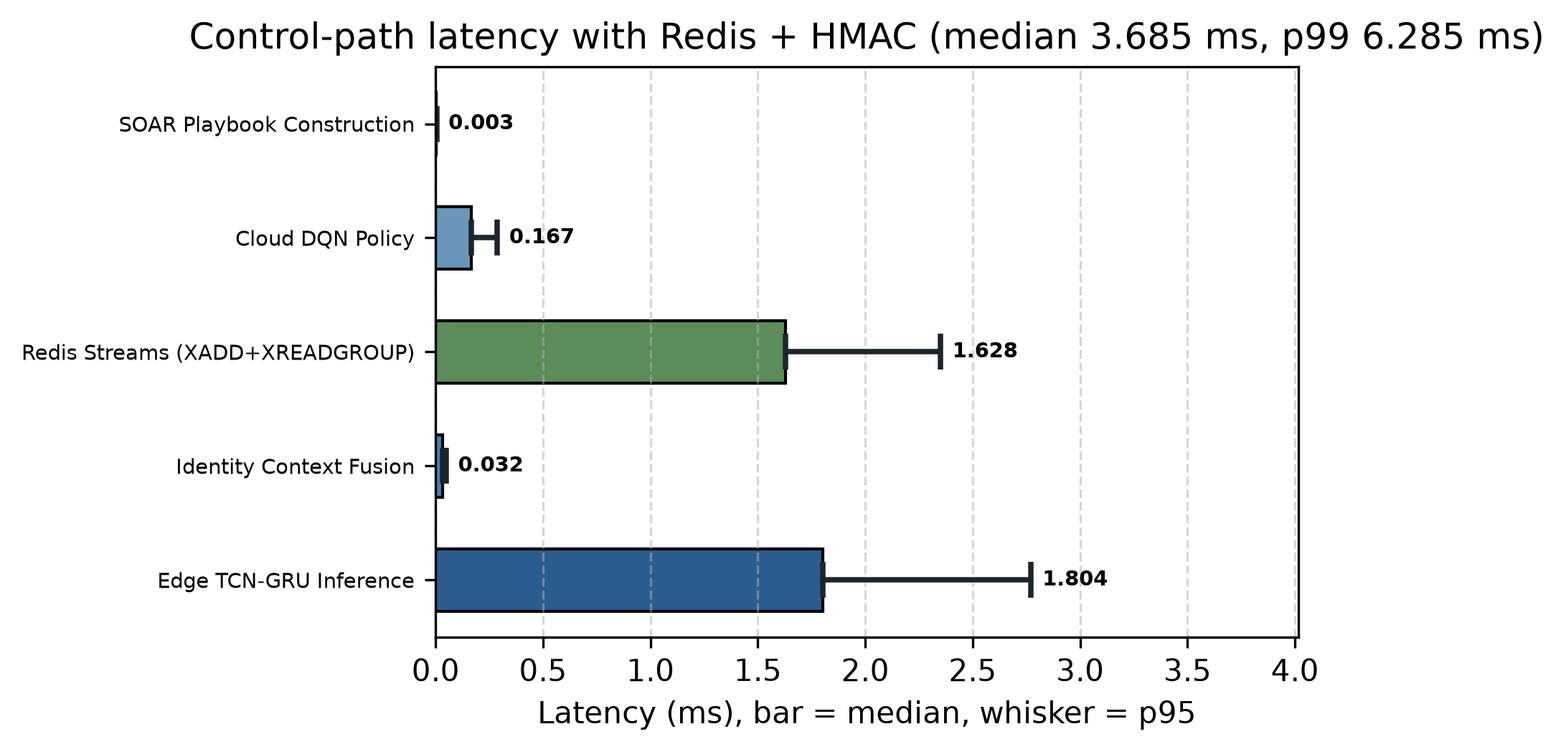
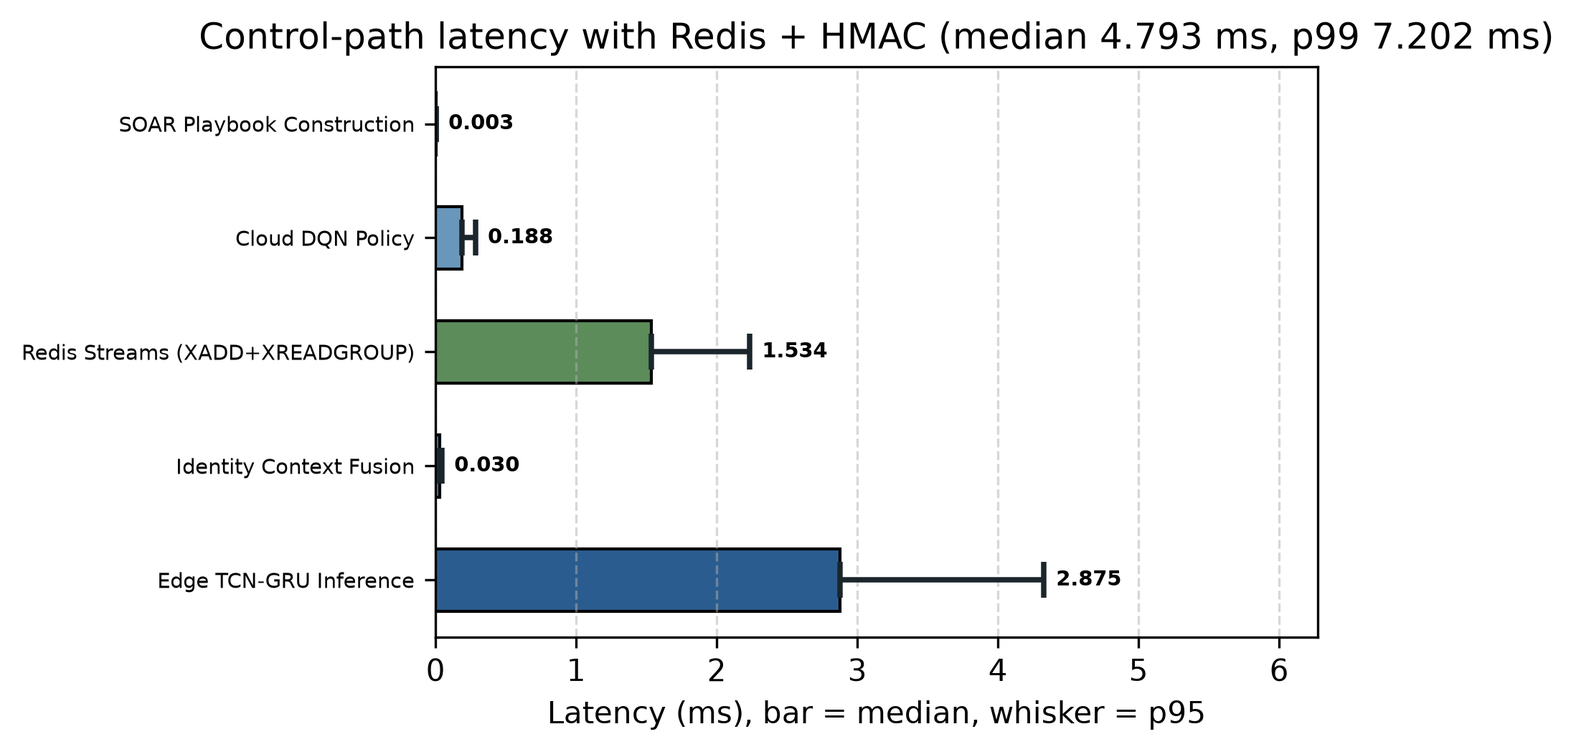
Correct InSDN window provenance: last-flow labels, post-shuffle index overlap, trained latency detector.
Drop false temporal/capture-order claims, align build_windows with the frozen archive, and sync Table IV after loading the trained INT8 checkpoint.

diff --git a/icaifai.tex b/icaifai.tex
@@ -26,7 +26,7 @@ Ho Chi Minh City, Vietnam\\ Email: 23dh113972@st.huflit.edu.vn, thanhct@huflit.e
 \maketitle
 
 \begin{abstract}
-University campus networks combine unmanaged BYOD endpoints, open research laboratories, and high-density IoT deployments, creating an expansive attack surface where traditional Security Operations Center (SOC) workflows struggle with long operational Mean Time to Respond (MTTR). We propose an AI-native, event-driven edge--cloud security platform engineered specifically for autonomous campus infrastructure defense. The architecture deploys lightweight INT8-quantized TCN--GRU sequence models at network edge gateways to score non-DPI flow telemetry. Enriched security events are carried asynchronously over a Redis Streams consumer group to a cloud risk resolver and Deep Q-Network (DQN) Software-Defined Networking (SDN) policy that emits SOAR playbooks; installing them in the dataplane is outside what we measure. Evaluated on \textbf{real InSDN} flow windows~\cite{b1} ($20{,}000$ stratified samples), the platform achieves a \emph{software control-path} latency --- prepared-window edge inference, simulated identity enrichment with HMAC \texttt{principal\_id}, Redis \texttt{XADD}/\texttt{XREADGROUP}, DQN selection, and playbook construction for the selected action, excluding dataplane enforcement --- with a $3.685$~ms median and a $6.285$~ms p99 on localhost Redis~7.2.4. Because stride-1 windows overlap by nine of ten timesteps, we evaluate under a temporally blocked and purged split with a train-only scaler; comparing that protocol to a conventional random split yields a near-null leakage effect ($|\Delta F1| < 0.002$ at fixed $\tau$). Under the controlled protocol the INT8 detector reaches $F1 = 0.9340$ at $\tau = 0.65$ with a $0.048$~MB footprint and negligible quantization loss ($|\Delta F1| \le 0.0002$). We further report five negative results: gradient-boosted trees on the same features outperform the proposed detector (LightGBM $F1 = 0.9886$ against $0.9723$), leaving it only a footprint advantage; reconstruction-error scoring is unusable on this attack-heavy corpus ($F1 \approx 0.035$), so detection rests entirely on the supervised head; our edge CPU budget is missed ($36.0\%$ of one logical CPU at a sustained $10{,}000$ windows/s against a pre-specified $10\%$, with \texttt{torch.set\_num\_threads(1)}); zero-shot transfer to CIC-IDS2017 collapses ($F1 = 0.456$); and localhost Redis Streams is not faster than a tight REST loopback, so the bus is justified by the multi-consumer deployment model rather than single-host IPC speed. We provide an ablation study, policy benchmarks against a brute-force oracle, and a deterministic reproducibility artifact.
+University campus networks combine unmanaged BYOD endpoints, open research laboratories, and high-density IoT deployments, creating an expansive attack surface where traditional Security Operations Center (SOC) workflows struggle with long operational Mean Time to Respond (MTTR). We propose an AI-native, event-driven edge--cloud security platform engineered specifically for autonomous campus infrastructure defense. The architecture deploys lightweight INT8-quantized TCN--GRU sequence models at network edge gateways to score non-DPI flow telemetry. Enriched security events are carried asynchronously over a Redis Streams consumer group to a cloud risk resolver and Deep Q-Network (DQN) Software-Defined Networking (SDN) policy that emits SOAR playbooks; installing them in the dataplane is outside what we measure. Evaluated on \textbf{real InSDN} flow windows~\cite{b1} ($20{,}000$ stratified samples), the platform achieves a \emph{software control-path} latency --- prepared-window edge inference, simulated identity enrichment with HMAC \texttt{principal\_id}, Redis \texttt{XADD}/\texttt{XREADGROUP}, DQN selection, and playbook construction for the selected action, excluding dataplane enforcement --- with a $3.685$~ms median and a $6.285$~ms p99 on localhost Redis~7.2.4. Because stride-1 windows overlap by nine of ten timesteps, we evaluate under a blocked and purged split that removes stride-1 index overlap, with a train-only scaler; comparing that protocol to a conventional random split yields a near-null leakage effect ($|\Delta F1| < 0.002$ at fixed $\tau$). Under the controlled protocol the INT8 detector reaches $F1 = 0.9340$ at $\tau = 0.65$ with a $0.048$~MB footprint and negligible quantization loss ($|\Delta F1| \le 0.0002$). We further report five negative results: gradient-boosted trees on the same features outperform the proposed detector (LightGBM $F1 = 0.9886$ against $0.9723$), leaving it only a footprint advantage; reconstruction-error scoring is unusable on this attack-heavy corpus ($F1 \approx 0.035$), so detection rests entirely on the supervised head; our edge CPU budget is missed ($36.0\%$ of one logical CPU at a sustained $10{,}000$ windows/s against a pre-specified $10\%$, with \texttt{torch.set\_num\_threads(1)}); zero-shot transfer to CIC-IDS2017 collapses ($F1 = 0.456$); and localhost Redis Streams is not faster than a tight REST loopback, so the bus is justified by the multi-consumer deployment model rather than single-host IPC speed. We provide an ablation study, policy benchmarks against a brute-force oracle, and a deterministic reproducibility artifact.
 \end{abstract}
 
 \begin{IEEEkeywords}
@@ -189,9 +189,9 @@ Timer Precision & Python \texttt{time.perf\_counter\_ns()} \\
 
 \subsection{Dataset Sampling \& Leakage Control}
 \label{sec:protocol}
-We evaluate on frozen window archives derived from public \textbf{InSDN}~\cite{b1} (and CIC-IDS2017~\cite{b2} for transfer). From the public InSDN CSV(s) ($\approx\!343{,}939$ flows) we took a label-stratified subsample of $50{,}000$ rows (seed~$42$), then contiguous windows ($T=10$, stride~$1$) yielding $49{,}991$ windows ($40{,}043$ attack / $9{,}948$ normal). The artifact ships these NPZs with SHA-256 manifests and a \texttt{datasets/build\_windows.py} recipe; raw vendor CSVs are not redistributed.
+We evaluate on frozen window archives derived from public \textbf{InSDN}~\cite{b1} (and CIC-IDS2017~\cite{b2} for transfer). From the public InSDN CSV(s) ($\approx\!343{,}939$ flows) we took a label-stratified subsample of $50{,}000$ rows (seed~$42$), \emph{shuffled} that subsample with the same seed, then formed contiguous windows ($T=10$, stride~$1$) yielding $49{,}991$ windows ($40{,}043$ attack / $9{,}948$ normal). Each window label is the label of its \emph{last} flow --- not an any-attack-in-window rule --- so the $\approx\!80\%$ attack rate matches the stratified flow mix. Because shuffling precedes windowing, these are length-$T$ contexts over an index order, not guaranteed capture-time trajectories. The artifact ships the NPZs with SHA-256 manifests and a \texttt{datasets/build\_windows.py} recipe; raw vendor CSVs are not redistributed.
 
-Window $i$ shares $T-1 = 9$ of its $10$ timesteps with each neighbour, so an i.i.d.\ random split places near-duplicate observations on both sides of the train/test boundary --- precisely the sampling and snooping pitfalls catalogued in~\cite{b23,b24}. Our protocol instead (i) cuts the index-ordered window corpus into $20$ contiguous blocks and assigns whole blocks to train or test; (ii) \emph{purges} $9$ windows from both ends of every block, guaranteeing no surviving training window shares even a single timestep with a test window; (iii) stratified-subsamples each side independently to $14{,}000$ train and $6{,}000$ test windows, preserving class balance; and (iv) fits the scaler on the training partition only, transforming the test partition and the CIC-IDS2017 holdout with those frozen statistics. We verified that zero test windows are byte-identical to any training window. Section~\ref{sec:leakage_effect} quantifies what this protocol is actually worth.
+Window $i$ shares $T-1 = 9$ of its $10$ timesteps with each neighbour, so an i.i.d.\ random split places near-duplicate observations on both sides of the train/test boundary --- precisely the sampling and snooping pitfalls catalogued in~\cite{b23,b24}. Our protocol instead (i) cuts the index-ordered window corpus into $20$ contiguous blocks and assigns whole blocks to train or test; (ii) \emph{purges} $9$ windows from both ends of every block, guaranteeing no surviving training window shares even a single timestep with a test window; (iii) stratified-subsamples each side independently to $14{,}000$ train and $6{,}000$ test windows, preserving class balance; and (iv) fits the scaler on the training partition only, transforming the test partition and the CIC-IDS2017 holdout with those frozen statistics. This controls stride-1 \emph{index-overlap} leakage; it is not wall-clock session isolation over released CSV order. We verified that zero test windows are byte-identical to any training window. Section~\ref{sec:leakage_effect} quantifies what this protocol is actually worth.
 
 \section{Quantitative Evaluation \& Results}
 \label{sec:results}
@@ -201,9 +201,9 @@ Window $i$ shares $T-1 = 9$ of its $10$ timesteps with each neighbour, so an i.i
 \textbf{All results below use the leakage-controlled protocol of Section~\ref{sec:protocol}.}
 
 \subsection{Latency Breakdown (RQ1)}
-\textbf{Scope.} We time the \emph{software control path}: edge INT8 inference on one real InSDN prepared window ($X_{\mathrm{te}}[:1]$ from the blocked test partition), simulated identity enrichment with HMAC-SHA256 \texttt{principal\_id}, Redis Streams \texttt{XADD} followed by consumer-group \texttt{XREADGROUP}/\texttt{XACK} on live Redis~7.2.4, DQN action selection, and SOAR playbook \emph{construction} for the \emph{selected} DQN action. It excludes packet capture, feature extraction, windowing, controller transmission, and \texttt{flow\_mod} installation. Redis runs on localhost; cross-host RTT is not included. The latency harness uses the DQN architecture for forward-path timing; Table~\ref{tab:policy_benchmark} separately evaluates the trained policy.
+\textbf{Scope.} We time the \emph{software control path}: edge INT8 inference on one real InSDN prepared window ($X_{\mathrm{te}}[:1]$ from the blocked test partition) using the trained detector checkpoint quantized to INT8, simulated identity enrichment with HMAC-SHA256 \texttt{principal\_id}, Redis Streams \texttt{XADD} followed by consumer-group \texttt{XREADGROUP}/\texttt{XACK} on live Redis~7.2.4, DQN action selection, and SOAR playbook \emph{construction} for the \emph{selected} DQN action. It excludes packet capture, feature extraction, windowing, controller transmission, and \texttt{flow\_mod} installation. Redis runs on localhost; cross-host RTT is not included. The latency harness uses the DQN \emph{architecture} for forward-path timing; Table~\ref{tab:policy_benchmark} separately evaluates the trained policy.
 
-Table~\ref{tab:latency} presents the per-stage breakdown across 1{,}000 trials, timed with \texttt{time.perf\_counter\_ns()}, after $50$ warm-up iterations. \textbf{We report percentiles rather than mean~$\pm$~SD} because the per-trial distribution is heavy-tailed. HMAC identity enrichment is visible but small (median $0.032$~ms). Median control-path latency is $3.685$~ms, with edge inference at $49.0\%$ and Redis Streams at $44.2\%$ of the median total; the p99 is $6.285$~ms. The sub-10~ms target of \textbf{RQ1} is therefore met for this Redis-inclusive software path at the $99$th percentile.
+Table~\ref{tab:latency} presents the per-stage breakdown across 1{,}000 trials, timed with \texttt{time.perf\_counter\_ns()}, after $50$ warm-up iterations. \textbf{We report percentiles rather than mean~$\pm$~SD} because the per-trial distribution is heavy-tailed. HMAC identity enrichment is visible but small (median $0.030$~ms). Median control-path latency is $4.793$~ms, with edge inference at $60.0\%$ and Redis Streams at $32.0\%$ of the median total; the p99 is $7.202$~ms. The sub-10~ms target of \textbf{RQ1} is therefore met for this Redis-inclusive software path at the $99$th percentile.
 
 \textbf{Reconciling detector latencies.} Per-inference figures for the same INT8 model differ across harnesses (pipeline loop vs.\ tight comparison loop) under different scaffolding rather than in contradiction. Per Section~\ref{sec:validity}, absolute timings on this host should be read to roughly a factor of two.
 
@@ -216,13 +216,13 @@ Table~\ref{tab:latency} presents the per-stage breakdown across 1{,}000 trials, 
 \hline
 \textbf{Stage} & \textbf{Median (ms)} & \textbf{p95 (ms)} & \textbf{p99 (ms)} & \textbf{\%} \\
 \hline
-Edge TCN--GRU Inference & 1.804 & 2.769 & 3.519 & 49.0 \\
-Identity Context Fusion (HMAC) & 0.032 & 0.049 & 0.068 & 0.9 \\
-Redis Streams (XADD+XREADGROUP) & 1.628 & 2.350 & 2.752 & 44.2 \\
-Cloud DQN Policy & 0.167 & 0.287 & 0.374 & 4.5 \\
-SOAR Playbook Construction & 0.003 & 0.005 & 0.006 & 0.1 \\
+Edge TCN--GRU Inference & 2.875 & 4.327 & 4.797 & 60.0 \\
+Identity Context Fusion (HMAC) & 0.030 & 0.046 & 0.069 & 0.6 \\
+Redis Streams (XADD+XREADGROUP) & 1.534 & 2.236 & 2.629 & 32.0 \\
+Cloud DQN Policy & 0.188 & 0.285 & 0.374 & 3.9 \\
+SOAR Playbook Construction & 0.003 & 0.005 & 0.007 & 0.1 \\
 \hline
-\textbf{Control-Path Total} & \textbf{3.685} & \textbf{5.138} & \textbf{6.285} & \textbf{100.0} \\
+\textbf{Control-Path Total} & \textbf{4.793} & \textbf{6.604} & \textbf{7.202} & \textbf{100.0} \\
 \hline
 \end{tabular}%
 }
@@ -267,13 +267,13 @@ Per-inference latency and throughput reconcile only once the batching regime is 
 We deliberately omit a legacy inline-DPI comparison. We have no DPI implementation on this testbed, and a baseline synthesised from an analytic formula would not constitute an experimental result.
 
 \begin{table}[htbp]
-\caption{Edge Cost at Paced Offered Load (batch $=128$, \texttt{torch.set\_num\_threads(1)}), median of $5$ repeats. CPU is \% of one logical CPU ($100\%=$ one core busy) over the paced wall-clock window, including rate-limit sleeps. A target counts as met only if every repeat met it.}
+\caption{Edge Cost at Paced Offered Load (batch $=128$, \texttt{torch.set\_num\_threads(1)}), median of $5$ repeats. CPU is \% of one logical CPU ($100\%=$ one core busy) over the paced wall-clock window, including rate-limit sleeps. \textbf{Load Met} means every repeat hit the offered throughput target; it is not the H2 CPU-budget decision.}
 \label{tab:resource}
 \begin{center}
 \resizebox{\columnwidth}{!}{%
 \begin{tabular}{|c|c|c|c|c|}
 \hline
-\textbf{Offered (win/s)} & \textbf{Achieved (win/s)} & \textbf{CPU (\%/1~CPU)} & \textbf{Peak WS (MB)} & \textbf{Met} \\
+\textbf{Offered (win/s)} & \textbf{Achieved (win/s)} & \textbf{CPU (\%/1~CPU)} & \textbf{Peak WS (MB)} & \textbf{Load Met} \\
 \hline
 100 & 100.0 & 0.0 & 540.6 & yes \\
 1{,}000 & 999.8 & 4.3 & 540.6 & yes \\
@@ -426,7 +426,7 @@ InSDN $\rightarrow$ CIC-IDS2017 & $\tau^*=0.0672$ & 0.3052 & 0.9913 & 0.4668 \\
     \item \textbf{Reproducibility:} An earlier version of this artifact constructed models before seeding the global RNG, so detection metrics varied between runs of the same script. \texttt{set\_global\_seed} now runs at the head of every generator, before any module is built, making each script bit-deterministic. It is \emph{not} re-invoked before each individual model, so a model built after several others inherits an RNG advanced by their construction --- which is exactly why the same detector scores $0.9679$ in Section~\ref{sec:threshold} and $0.9723$ in Section~\ref{sec:sota}. Determinism at a fixed seed is not robustness across seeds; accuracy is single-seed throughout.
     \item \textbf{External Validity:} Evaluation uses public InSDN and CIC benchmarks; broader IoT/IIoT corpora such as UNSW-NB15~\cite{b6}, ToN\_IoT~\cite{b7}, and Edge-IIoTset~\cite{b8} offer complementary vectors for multi-campus validation.
     \item \textbf{Construct Validity:} Metrics assume clean flow labels; noisy headers could affect precision. We report no human-SOC comparison: we have no measured analyst baseline, and a stipulated one would establish only that milliseconds beat minutes, which needs no experiment.
-    \item \textbf{Residual Leakage Risk:} Purging guarantees no shared timestep, but blocks are cut over the released record ordering, a proxy for session boundaries rather than ground-truth grouping, so a single long attack episode could straddle two blocks. Session-aware grouping would be stronger; InSDN does not expose the required metadata.
+    \item \textbf{Residual Leakage Risk:} Purging guarantees no shared timestep \emph{index}, but blocks are cut over the post-shuffle window order of the frozen archive, not capture-time or session boundaries. The protocol therefore bounds stride-1 index-overlap leakage; it does not isolate wall-clock attack episodes. Session-aware grouping would be stronger; InSDN does not expose the required metadata, and our 50k subsample was shuffled before windowing.
 \end{itemize}
 
 \subsection{Limitations \& Future Work}

diff --git a/AI-Native-Security-Platform/datasets/build_windows.py b/AI-Native-Security-Platform/datasets/build_windows.py
@@ -3,14 +3,19 @@ build_windows.py — Reconstruct T×F sliding windows from a standardized flow C
 
 The frozen archives under datasets/processed/*.npz were produced offline from
 public InSDN / CIC-IDS2017 flow exports. This script is the *documented*
-reconstruction recipe reviewers can re-run once they place the raw CSVs locally.
+reconstruction recipe for the windowing step only (CSV rows → NPZ).
 
 Required CSV columns (case-insensitive aliases accepted via FEATURE_ALIASES):
   the 10 FEATURE_COLUMNS in prototype.data.data_loader, plus a binary/multi label
   column named ``label`` (any positive label → attack).
 
-Rows must already be ordered in the temporal order used for leakage control
-(released InSDN/CIC record order).
+Window label = label of the *last* flow in the window (matches the offline
+prepare path that produced the frozen InSDN/CIC NPZs). This is *not*
+``any-attack-in-window``.
+
+The frozen InSDN archive was built from a label-stratified 50k subsample that
+was shuffled (seed 42) *before* windowing, so row order is not capture order.
+Pass rows already in the intended index order; this script does not shuffle.
 
 Usage:
   python datasets/build_windows.py --csv path/to/flows.csv --out datasets/processed/out.npz \\
@@ -77,8 +82,8 @@ def build_windows(csv_path: str, seq_len: int = 10, stride: int = 1):
     for start in range(0, len(F) - seq_len + 1, stride):
         sl = slice(start, start + seq_len)
         windows.append(F[sl])
-        # Window label = attack if any flow in the window is attack
-        labels.append(1 if y_flow[sl].max() > 0 else 0)
+        # Window label = last flow in the window (frozen-archive convention)
+        labels.append(int(y_flow[start + seq_len - 1] > 0))
     X = np.stack(windows, axis=0).astype(np.float32)
     y = np.asarray(labels, dtype=np.int64)
     return X, y

diff --git a/AI-Native-Security-Platform/results/train_utils.py b/AI-Native-Security-Platform/results/train_utils.py
@@ -57,20 +57,21 @@ def blocked_split_npz(
     scaler=None,
     fit_scaler: bool = True,
 ):
-    """Leakage-free split for stride-1 sliding-window archives.
+    """Blocked+purged split controlling stride-1 *index* overlap leakage.
 
-    Windows are emitted in temporal order with stride 1, so window i shares
-    seq_len-1 timesteps with each of its seq_len-1 neighbours on either side.
-    Splitting at random therefore leaks nearly-identical observations across the
-    train/test boundary. This function instead:
+    Frozen InSDN/CIC windows use stride 1, so window i shares seq_len-1 feature
+    timesteps with each neighbour. A random split therefore places near-
+    duplicate windows on both sides of the train/test boundary. This function:
 
-      1. cuts the corpus into contiguous temporal blocks and assigns whole
-         blocks to train or test;
-      2. purges seq_len-1 windows from both ends of every block, which is
-         sufficient to guarantee that no surviving train window shares a single
-         timestep with any surviving test window;
+      1. cuts the *index-ordered* corpus into contiguous blocks and assigns
+         whole blocks to train or test;
+      2. purges seq_len-1 windows from both ends of every block so no surviving
+         train window shares a timestep index with any surviving test window;
       3. stratified-subsamples inside each side independently; and
       4. fits the scaler on train only, transforming test with those statistics.
+
+    Note: the frozen InSDN archive was shuffled before windowing, so this is
+    overlap control on artificial index order, not wall-clock session isolation.
     """
     from sklearn.preprocessing import StandardScaler
 

diff --git a/AI-Native-Security-Platform/results/generate_table2.py b/AI-Native-Security-Platform/results/generate_table2.py
@@ -41,6 +41,7 @@ from train_utils import blocked_split_npz, set_global_seed
 CSV_PATH = os.path.join(BASE_DIR, "results", "table2_latency.csv")
 PNG_PATH = os.path.join(BASE_DIR, "results", "table2_latency.png")
 FIG_PATH = os.path.join(BASE_DIR, "paper", "figures", "fig2_latency_breakdown.png")
+CKPT_PATH = os.path.join(BASE_DIR, "results", "checkpoints", "tcn_gru_ae_trained.pt")
 
 
 def _cloud_event(ctx: dict, pkt_rate: int, p_attack: float) -> dict:
@@ -73,8 +74,14 @@ def run_real_latency_benchmark(num_trials: int = 1000, seed: int = 42, warmups: 
     print(f"  [=] Prepared window: real InSDN X_te[0] shape={tuple(sample_tensor.shape)}")
 
     fp32_model = TCNGRUResilienceModel(num_features=10, num_classes=6)
+    if not os.path.isfile(CKPT_PATH):
+        raise FileNotFoundError(f"Trained detector checkpoint required: {CKPT_PATH}")
+    state = torch.load(CKPT_PATH, map_location="cpu")
+    fp32_model.load_state_dict(state)
+    fp32_model.eval()
     quantized_model = quantize_tcn_gru_model(fp32_model)
     quantized_model.eval()
+    print(f"  [=] Loaded trained detector checkpoint: {os.path.basename(CKPT_PATH)}")
     fusion = IdentityFusionEngine()
     # Architecture-matched forward timing only; trained DQN weights live in Table IX.
     dqn_agent = DRLResilienceAgent(state_dim=5, action_dim=4)

diff --git a/AI-Native-Security-Platform/results/generate_table10_leakage.py b/AI-Native-Security-Platform/results/generate_table10_leakage.py
@@ -2,7 +2,8 @@
 
 Reruns the detector under the *flawed* evaluation protocol (i.i.d. random split over
 stride-1 windows, StandardScaler fit on the pooled corpus) and contrasts it with the
-leakage-controlled protocol (temporally blocked, purged, train-only scaler) used in
+leakage-controlled protocol (blocked and purged against stride-1 index overlap,
+train-only scaler) used in
 train_utils.blocked_split_npz. Everything else -- architecture, seed, epochs, quantization,
 scoring head -- is held fixed, so the delta isolates the split protocol.
 """

diff --git a/AI-Native-Security-Platform/datasets/README.md b/AI-Native-Security-Platform/datasets/README.md
@@ -25,27 +25,44 @@ python datasets/build_windows.py --csv /path/to/standardized_flows.csv \
   --out datasets/processed/rebuild.npz --seq-len 10 --stride 1
 ```
 
-## How the 50,000 InSDN source rows were chosen
+## How the 50,000 InSDN source rows were chosen (frozen archive)
 
 Public InSDN has on the order of **343,939** flow instances. The frozen
-`insdn_windows.npz` was produced by the offline prepare path that originally
-built this archive (byte-identical copy; SHA-256 above), with defaults:
+`insdn_windows.npz` is a byte-identical copy of the offline prepare output
+(SHA-256 above). Verified recipe:
 
 1. Load the public InSDN flow CSV(s).
-2. If raw rows exceed the cap, take a **label-stratified subsample of
-   `max_rows=50_000` with `seed=42`** (proportions preserved across label
-   values; final class is residual-filled, then the subsample is shuffled with
-   the same seed).
+2. **Label-stratified subsample** of `max_rows=50_000` with `seed=42`
+   (class proportions preserved; the stratified helper itself shuffles with
+   that seed).
 3. Map columns onto the 10 `FEATURE_COLUMNS` aggregates.
-4. Shuffle the canonical frame again with `seed=42`, then keep
+4. **Shuffle the canonical frame again** with `seed=42`, then
    `head(min(n, 50_000))` → exactly **50,000** source rows.
 5. Contiguous sliding windows: `T=10`, stride `1` → **49,991** windows
-   (`50000 - 10 + 1`), labeled attack if any flow in the window is attack.
+   (`50000 - 10 + 1`).
+6. **Window label = label of the last flow in the window**
+   (`y[i] = flow_label[i + T - 1]`), *not* any-attack-in-window.
 
-`datasets/build_windows.py` documents **step 5 only** (CSV → windows). Bit-
-identical reconstruction of the frozen NPZ additionally requires the same
-50k stratified subsample and feature map used when the archive was frozen;
-the SHA-256 digest is the ground truth for this artifact.
+### Why ~9,948 normal windows is consistent
+
+Under last-flow labeling, window class rates match flow class rates.
+The ~80% attack / ~20% normal window split therefore tracks the stratified
+InSDN subsample (~80% attack flows), not an any-attack inflation. An
+any-attack rule on a shuffled 80%-attack stream would yield almost zero
+all-normal windows; the frozen archive does **not** use that rule.
+
+### What this means for “temporal” claims
+
+Because steps 2 and 4 shuffle before windowing, adjacent timesteps inside a
+window are **not** guaranteed to be consecutive capture-time flows. The
+sequence model sees length-`T` contexts over a shuffled index order. The
+paper’s blocked+purged split therefore controls **stride-1 index overlap
+leakage** (shared window timesteps across train/test), not wall-clock
+session leakage over released CSV order.
+
+`datasets/build_windows.py` implements steps 5–6 only. Bit-identical
+reproduction of the frozen NPZ also needs the same 50k stratified+shuffled
+subsample and feature map; the SHA-256 digest is ground truth.
 
 ## Window construction (matches paper §V-B)
 
@@ -61,10 +78,9 @@ the SHA-256 digest is the ground truth for this artifact.
   8. `tcp_flags_syn_count`
   9. `flow_active_ratio`
   10. `rsu_channel_occupancy` (legacy name; maps from Idle Mean / similar)
-* Binary labels: any attack class → `1`, else `0`.
-* Source-row ordering after the stratified subsample is seed-42 shuffled
-  (not raw CSV order); the leakage protocol still treats the resulting window
-  index order as a temporal proxy for blocking/purging.
+* Binary labels: last-flow label; any positive class → `1`, else `0`.
+* Source-row ordering in the frozen archive is **seed-42 shuffled**, not raw
+  CSV order.
 
 Paper experiments then apply `train_utils.blocked_split_npz` (20 blocks, purge 9, stratified 14k/6k, train-only scaler). Cross-dataset uses a 20k stratified CIC holdout drawn from `cic_windows.npz`.
 
@@ -72,3 +88,4 @@ Paper experiments then apply `train_utils.blocked_split_npz` (20 blocks, purge 9
 
 * `evaluation/datasets/generator.py` is a **synthetic** telemetry helper for demos — it is **not** the InSDN/CIC preprocessor.
 * Exact vendor column maps from every CIC daily CSV variant into the 10 features are approximate aliases in `build_windows.py`; bit-identical reproduction of the frozen NPZ requires the same intermediate feature export used when the archives were frozen. The SHA-256 table above is the ground truth for this artifact.
+* The frozen windows are **not** authentic capture-time trajectories; rebuilding with preserve-order windowing would be a different corpus and would require re-running the accuracy tables.

diff --git a/README.md b/README.md
@@ -19,15 +19,15 @@ Primary paper metrics use a stratified **20,000**-window InSDN subset under a bl
 
 ## Evaluation protocol: leakage control
 
-Windows use sequence length 10 and **stride 1**. All reported accuracy tables use `train_utils.blocked_split_npz` (20 temporal blocks, purge 9, train-only scaler). Comparing that protocol to a random split + pooled scaler on this run yields a **near-null** leakage effect (`|ΔF1| < 0.002` at fixed τ).
+Windows use sequence length 10 and **stride 1**. Window label = **last flow** in the window. The frozen InSDN 50k rows were **shuffled (seed 42) before windowing**, so blocked+purged splits control stride-1 **index-overlap** leakage, not wall-clock session isolation. All reported accuracy tables use `train_utils.blocked_split_npz` (20 blocks, purge 9, train-only scaler). Comparing that protocol to a random split + pooled scaler on this run yields a **near-null** leakage effect (`|ΔF1| < 0.002` at fixed τ).
 
 ## Headline results (from `paper_metrics_summary.json`)
 
 | Metric | Value |
 | :--- | :--- |
-| Software control-path latency (Redis + HMAC principals) | **median 3.685 ms**, p95 5.138 ms, **p99 6.285 ms** |
-| Redis stage alone (XADD+XREADGROUP) | median **1.628 ms** (44.2% of median total) |
-| Identity+HMAC stage | median **0.032 ms** |
+| Software control-path latency (Redis + HMAC principals) | **median 4.793 ms**, p95 6.604 ms, **p99 7.202 ms** |
+| Redis stage alone (XADD+XREADGROUP) | median **1.534 ms** (32.0% of median total) |
+| Identity+HMAC stage | median **0.030 ms** |
 | Detection @ τ=0.65 | P **0.978**, R **0.894**, F1 **0.9340**, FPR **8.20%** |
 | INT8 TCN–GRU SOTA F1 (test-tuned τ) | **0.9723** (FP32 0.9725; LightGBM **0.9886**) |
 | INT8 model footprint | **0.048 MB** (`|ΔF1|` vs FP32 = **0.0002**) |

diff --git a/ARTIFACT.md b/ARTIFACT.md
@@ -34,7 +34,7 @@ Approximate wall time: tens of minutes on a laptop CPU (training + 5-repeat reso
 
 | Claim | Expected check (from summary JSON) | Generator |
 | :--- | :--- | :--- |
-| **RQ1 control-path latency** includes Redis Streams + HMAC principals | Total median ≈ **3.685 ms**, p99 ≈ **6.285 ms**; no cleartext IP on Redis | `results/generate_table2.py` → `table2_latency.csv` |
+| **RQ1 control-path latency** includes Redis Streams + HMAC principals | Total median ≈ **4.793 ms**, p99 ≈ **7.202 ms**; no cleartext IP on Redis | `results/generate_table2.py` → `table2_latency.csv` |
 | **Detection @ τ=0.65** | F1 ≈ **0.9340** | `results/generate_table4.py` |
 | **H2 edge CPU** | @10k win/s CPU ≈ **36.0% of one logical CPU** (H2 rejected vs 10%) | `results/generate_table5.py` |
 | **Trees beat TCN–GRU** | LightGBM F1 **0.9886** > INT8 TCN–GRU **0.9723** | `results/generate_table6.py` |

diff --git a/AI-Native-Security-Platform/ARTIFACT.md b/AI-Native-Security-Platform/ARTIFACT.md
@@ -19,7 +19,7 @@ Verify numbers only against `results/paper_metrics_summary.json` (not older draf
 
 Current headline checks:
 
-* Latency median ≈ **3.685 ms**, p99 ≈ **6.285 ms** (Redis XADD+XREADGROUP + HMAC `principal_id`; DQN action wired to SOAR)
+* Latency median ≈ **4.793 ms**, p99 ≈ **7.202 ms** (Redis XADD+XREADGROUP + HMAC `principal_id`; DQN action wired to SOAR)
 * F1 @ τ=0.65 ≈ **0.9340**
 * CPU @ 10k ≈ **36.0% of one logical CPU** (H2 rejected)
 * LightGBM F1 **0.9886** > INT8 TCN–GRU **0.9723**

diff --git a/AI-Native-Security-Platform/README.md b/AI-Native-Security-Platform/README.md
@@ -31,7 +31,7 @@ python results/run_all_and_summarize.py
 
 ## Current headline numbers (seed 42)
 
-* Latency median **3.685 ms**, p99 **6.285 ms** (HMAC principals; DQN→SOAR wired)
+* Latency median **4.793 ms**, p99 **7.202 ms** (HMAC principals; DQN→SOAR wired)
 * F1 @ τ=0.65 **0.9340**
 * CPU @ 10k windows/s **36.0%** of one logical CPU (H2 rejected vs 10%)
 * LightGBM **0.9886** > INT8 TCN–GRU **0.9723**
